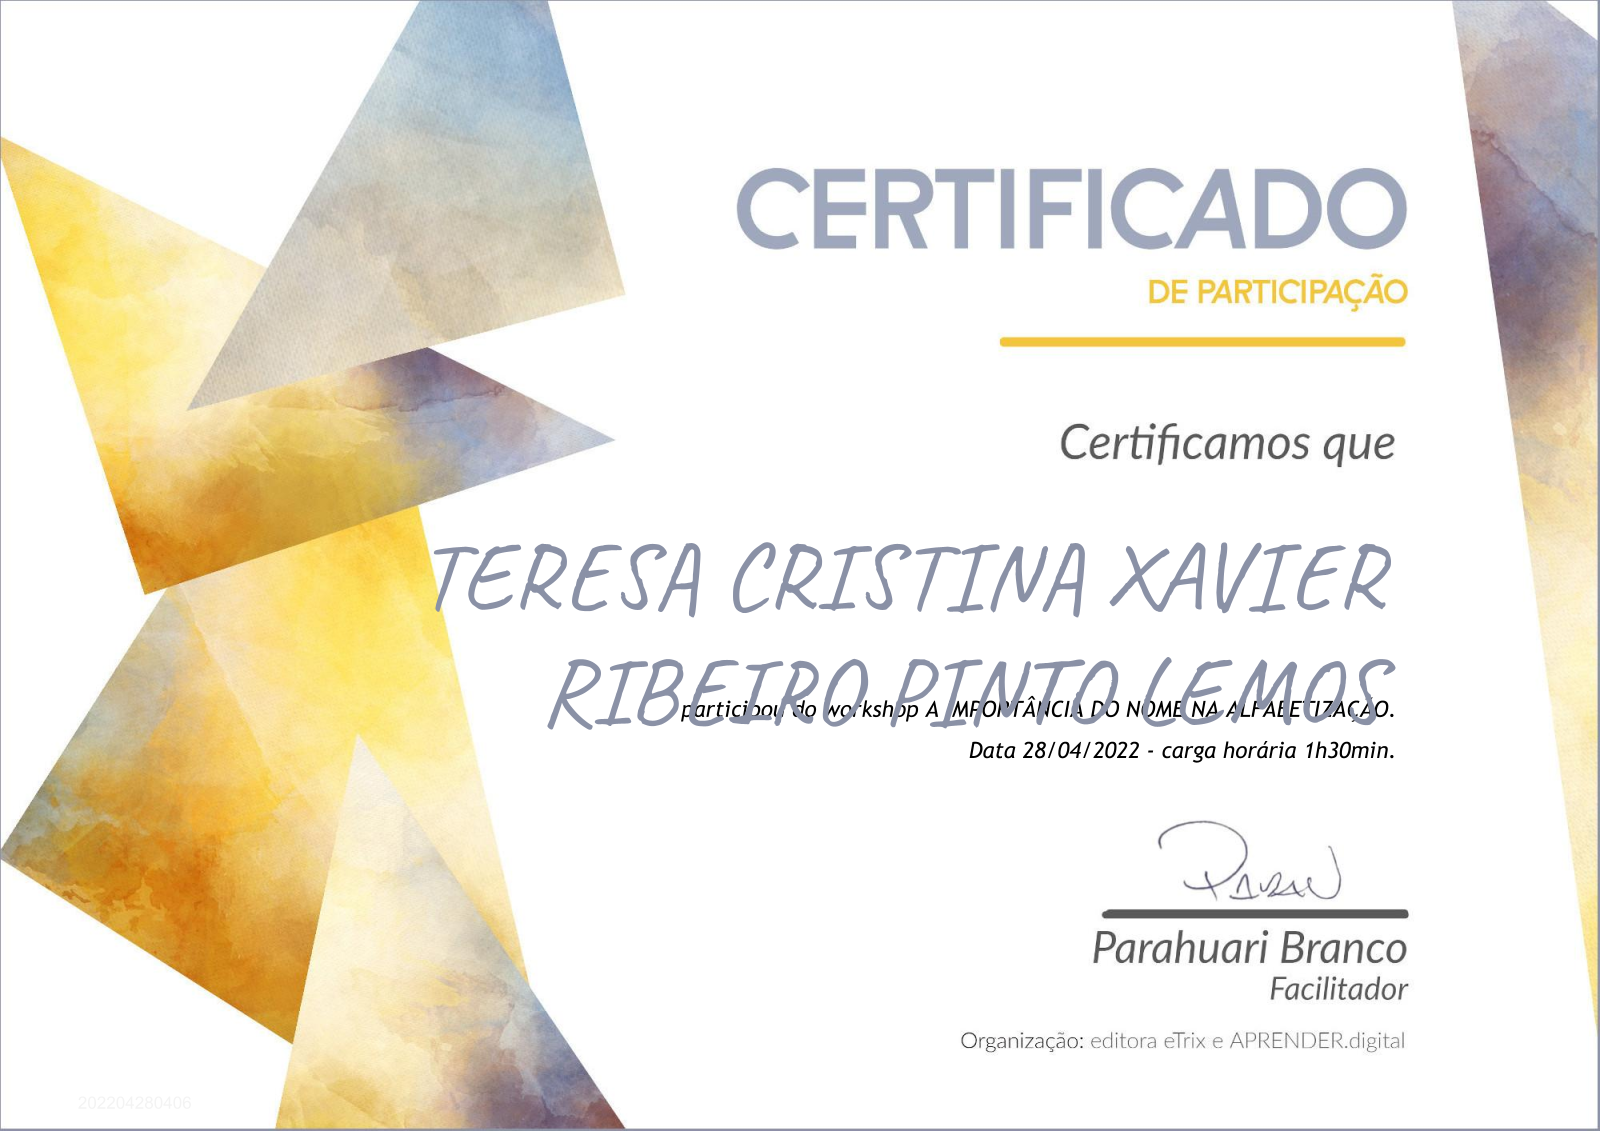
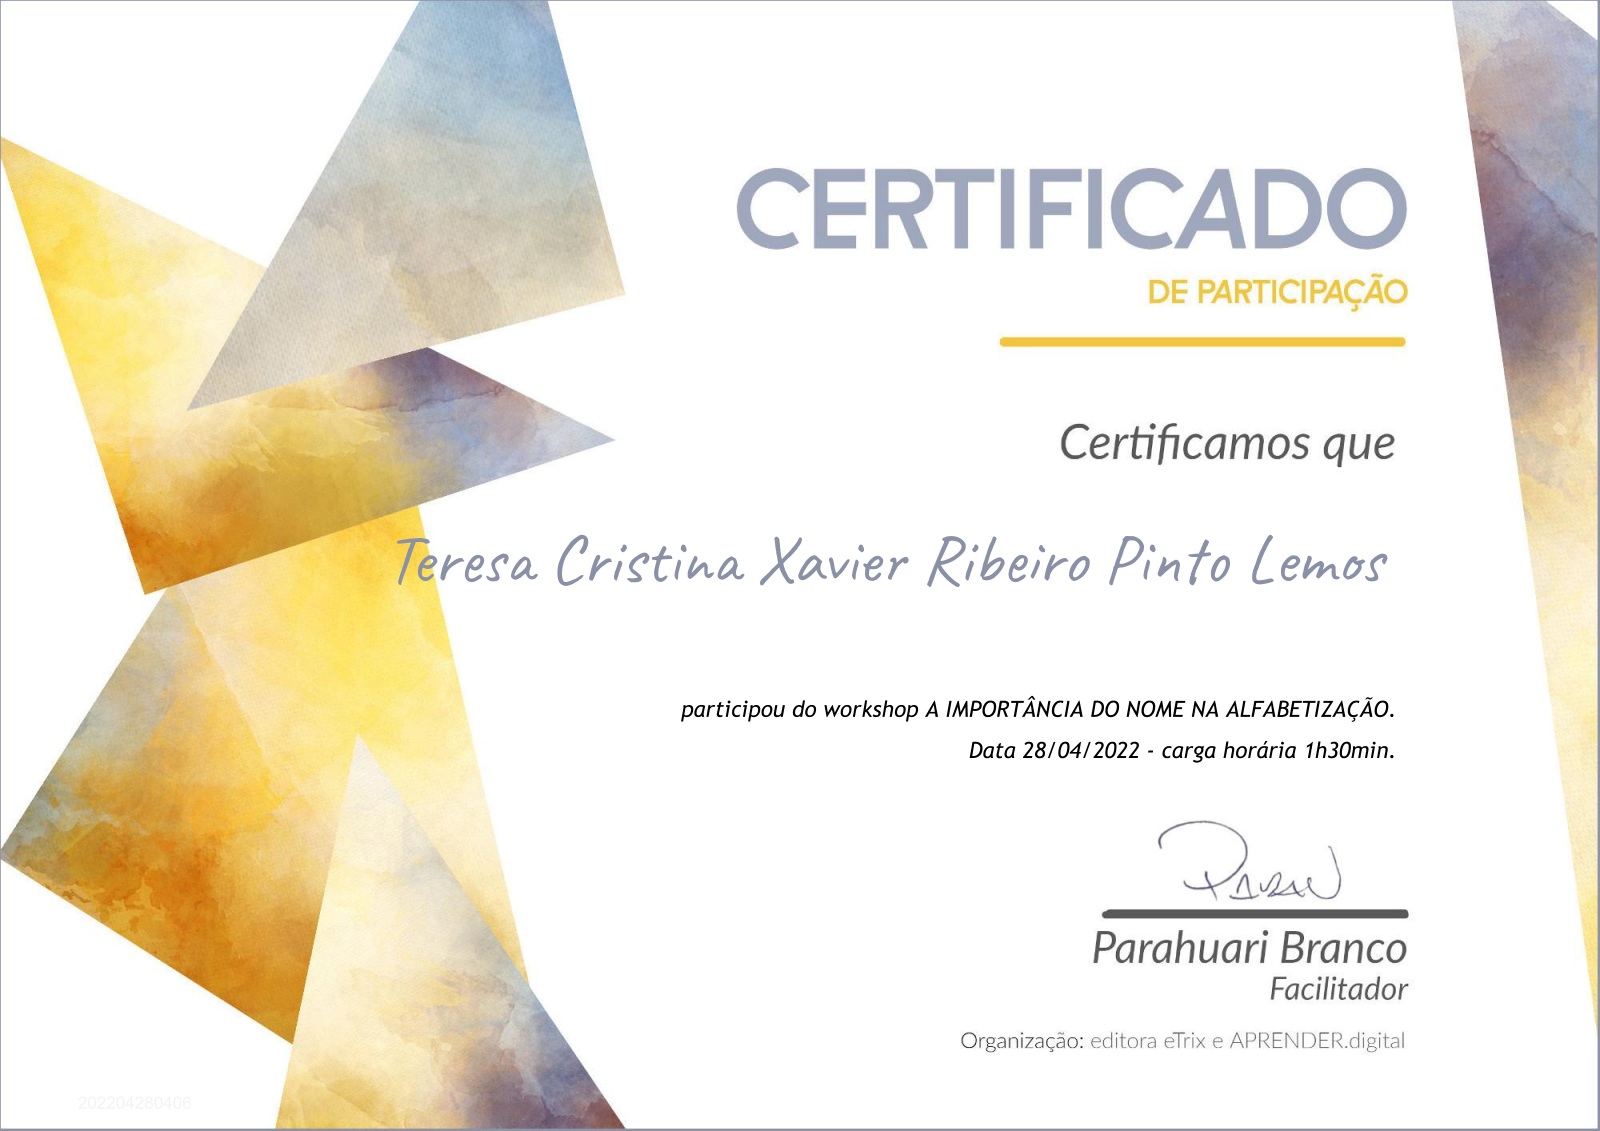
emissao

Changed region(s): [[0.25, 0.4642, 0.875, 0.557], [0.3438, 0.588, 0.875, 0.6499]]

diff --git a/_profs/t/teresa.lemos.csanl.com/certificado-importancia-do-nome-2022-04-28.md b/_profs/t/teresa.lemos.csanl.com/certificado-importancia-do-nome-2022-04-28.md
@@ -1,6 +1,6 @@
 ---
 layout: certificado-importancia-do-nome-2022-04-28
-nome: TERESA CRISTINA XAVIER RIBEIRO PINTO LEMOS
+nome: Teresa Cristina Xavier Ribeiro Pinto Lemos
 facebook:
 pic: /assets/img/user.jpg
 id-aluno: teresa.lemos.csanl.com

diff --git a/_profs/t/teresa.lemos.csanl.com/bg-alfabetizacao-nome-proprio.md b/_profs/t/teresa.lemos.csanl.com/bg-alfabetizacao-nome-proprio.md
@@ -1,6 +1,6 @@
 ---
 layout: badge-alfabetizacao-nome-proprio
-nome: TERESA CRISTINA XAVIER RIBEIRO PINTO LEMOS
+nome: Teresa Cristina Xavier Ribeiro Pinto Lemos
 facebook:
 pic: /assets/img/user.jpg
 id-aluno: teresa.lemos.csanl.com

diff --git a/_profs/t/teresa.lemos.csanl.com/index.md b/_profs/t/teresa.lemos.csanl.com/index.md
@@ -1,6 +1,6 @@
 ---
 layout: profv2
-nome: TERESA CRISTINA XAVIER RIBEIRO PINTO LEMOS
+nome: Teresa Cristina Xavier Ribeiro Pinto Lemos
 facebook:
 pic: /assets/img/user.jpg
 id-aluno: teresa.lemos.csanl.com
